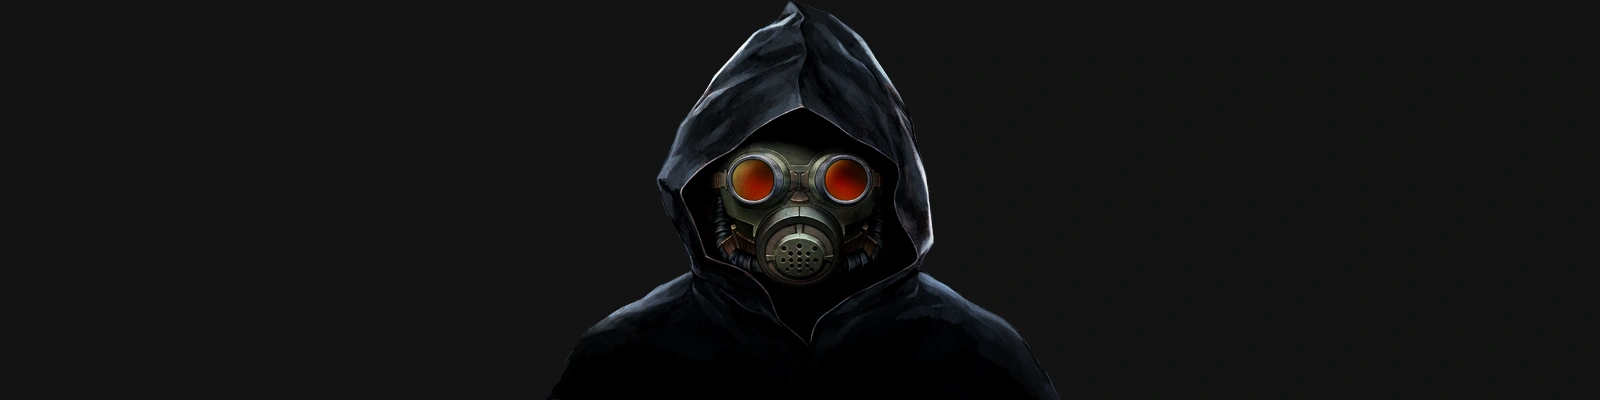
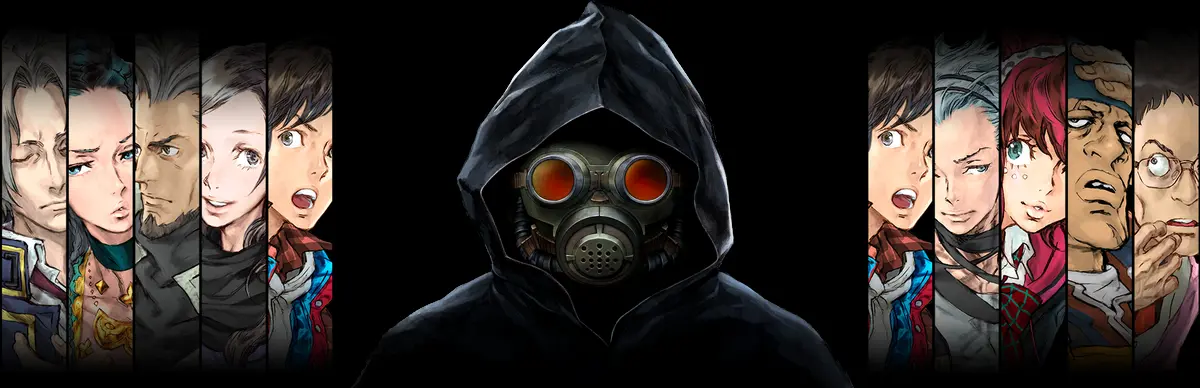
V.1.0.1
CSS + maj image ZE999

diff --git a/css/style.css b/css/style.css
@@ -8,7 +8,7 @@
 
 body {
     font-family: "Baloo Bhaijaan 2", sans-serif;
-    font-size: 1.2rem
+    font-size: 1.2rem;
 }
 
 #en-tete>a>img {
@@ -28,13 +28,10 @@ nav>ul {
     box-shadow: 0px 1px 2px 1px rgba(0, 0, 0, 0.3);
     height: 5rem;
     border-bottom: 3px solid #A63C06;
-}
-
-nav ul {
     list-style-type: none;
 }
 
-nav ul a>img {
+nav ul a img {
     width: 65px;
     margin-top: 0.7vw;
 }
@@ -544,6 +541,10 @@ nav>ul>li:hover>a {
         margin-top: 70px;
     }
 
+    nav > ul > li > a {
+        font-size: 0.8rem;
+    }
+
     #content>.main-header>img {
         width: 15rem;
     }
@@ -706,8 +707,13 @@ nav>ul>li:hover>a {
         display: none;
     }
 
+    #en-tete>a{
+    display: inline-block;
+    }
+
     #en-tete>a>img {
-        display: inline;
+        display: block;
+        
         width: 55px;
         margin-top: .5vw;
         margin-left: 1rem;
